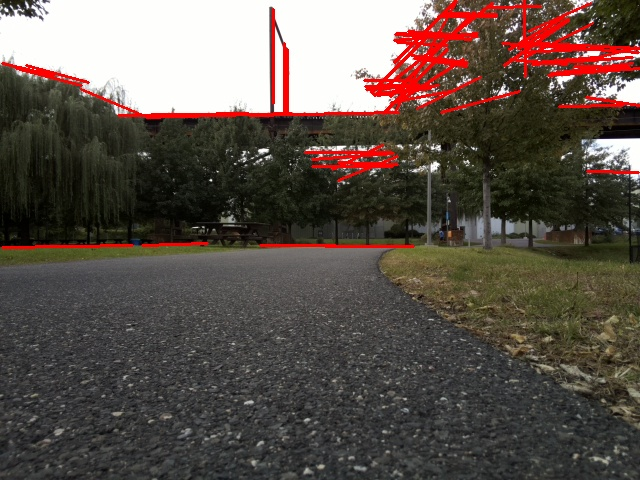
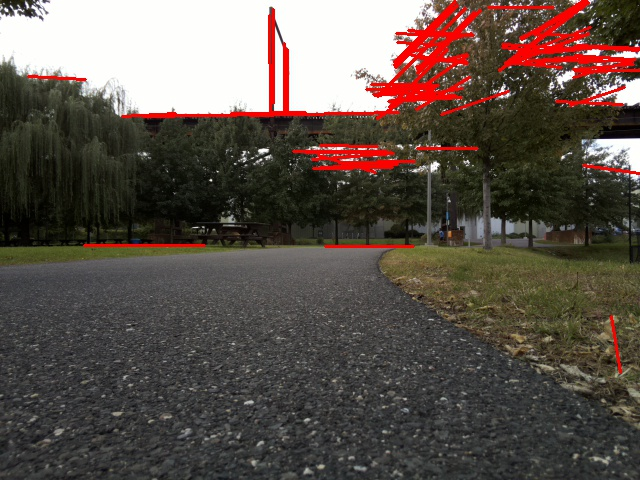
Functioning HSV_CV_Platoon.py for detecting right-most orange ribbon line

diff --git a/PiCode/HSV_CV_Platoon.py b/PiCode/HSV_CV_Platoon.py
@@ -1,4 +1,3 @@
-
 # Code to detect Xo and PsiR from pictures of Penn Park roads taken from Pi Camera 
 import cv2
 import numpy as np
@@ -24,15 +23,32 @@ import matplotlib.pyplot as plt
 
 # Read in image from directory of Penn Park images
 # Change this to where the image 
+
+
+def debug_chosen_line(offset, psi_r, chosenLine, imgBGR):
+    x1 = chosenLine[0]
+    y1 = chosenLine[1]
+    x2 = chosenLine[2]
+    y2 = chosenLine[3]
+
+    font                   = cv2.FONT_HERSHEY_SIMPLEX
+    fontScale              = 1
+    fontColor              = (255,255,255)
+    lineType               = 2
+    cv2.putText(imgBGR,"Estimated Offset: {0:.2f}".format(offset),(50,400),font,fontScale,fontColor,lineType)
+    cv2.putText(imgBGR,"Estimated Psi_R: {0:.2f}".format(psi_r),(50,450),font,fontScale,fontColor,lineType)
+
+    # Draw the line on the original image
+    cv2.line(imgBGR,(x1,y1),(x2,y2),(255,0,0),10)
+
+    print("x1: {} x2: {} y1: {} y2: {}".format(x1, x2, y1, y2))
+    print("Estimated Offset: {0:.2f}".format(offset))
+    print("Estimated Psi_r: {0:.2f}".format(psi_r))
+
     
 def perform_image_transformations(imgBGR):
     imgGray = cv2.cvtColor(imgBGR, cv2.COLOR_BGR2GRAY)
-    
-    ranges=(20,90,255) # Range of acceptable HSV values
-    frontpoint = (0.5, 0.1) # fractions of total resolution in (x,y)
-    avgsize = 5 # number of pixels to average
-    blursize = 25
-    
+    blursize = 1
     # Convert image to HSV
     imghsv = cv2.cvtColor(imgBGR, cv2.COLOR_BGR2HSV)
     # Blur image
@@ -41,11 +57,24 @@ def perform_image_transformations(imgBGR):
     return imgGray, imghsv
 
 
-def get_CV_results(imgBGR, imgGray, imghsv,edges,heightOffset,widthOffset,height,width):
-     # Print out dimensions of cropped image
+def get_CV_results(imgBGR, imgGray, imghsv):
+    height, width = imgBGR.shape[0:2]
+    
+    # Hard-coded Thresholds for Orange
+    lowerthres = np.array([0, 100, 100])
+    upperthres = np.array([100, 200, 255])
+    mask = cv2.inRange(imghsv, lowerthres, upperthres)
+
+    # Perform Canny edge detection on selected region of interest
+    # (Bottom right-hand corner of image)
+    heightOffset = int(height/2)
+    widthOffset = 0
+    edges = cv2.Canny(mask[heightOffset:height, widthOffset:width], 100,255)
+
+    # Print out dimensions of cropped image
     cropHeight,cropWidth = edges.shape
     # Filter detected edges for potential road edges
-    minLineLength = 30
+    minLineLength = 40
     maxLineGap = 30
     lines = cv2.HoughLinesP(edges,rho=1,theta=np.pi/180,threshold=20,
         minLineLength=minLineLength,maxLineGap=maxLineGap)
@@ -55,6 +84,8 @@ def get_CV_results(imgBGR, imgGray, imghsv,edges,heightOffset,widthOffset,height
     CAMERA_FOCAL_LENGTH = 1098.88
 
     y2max = 0
+    x2max = 0
+    maxLineLength = 0
     for x in range(0, len(lines)):
         for x1,y1,x2,y2 in lines[x]:
             x1 = x1 + widthOffset
@@ -62,24 +93,27 @@ def get_CV_results(imgBGR, imgGray, imghsv,edges,heightOffset,widthOffset,height
             y1 = y1 + heightOffset
             y2 = y2 + heightOffset
             slope_image = (x2 - x1) * 1.0/ (y2 - y1)
+            dx = x2-x1
+            dy = y2-y1
+            lineLength = math.sqrt((dx**2)+(dy**2))
+            # print("Line length: {}".format(lineLength))
             x_intercept_computer_coords = x1 - (slope_image * y1)
             x_intercept_centered_coords = slope_image * (height/2) + x_intercept_computer_coords - (width/2)
-            print("x1: {} x2: {} y1: {} y2: {}".format(x1, x2, y1, y2))
-            if y2 > y2max:
+            # # Draw the line on the original image
+            # cv2.line(imgBGR,(x1,y1),(x2,y2),(255,0,0),4)
+            # if slope_image > 0 and y2 > y2max and x2 > x2max:
+
+            if slope_image > 0 and y2 > y2max:
                 y2max = y2
-                chosenLine = [x1,y1,x2,y2]
-                # Calculate Xo and PsiR
-                offset = slope_image * CAMERA_HEIGHT
-                psi_r = math.degrees(math.atan(x_intercept_centered_coords/CAMERA_FOCAL_LENGTH))
-            
-            x1 = chosenLine[0]
-            x2 = chosenLine[1]
-            y1 = chosenLine[2]
-            y2 = chosenLine[3]
-            # Draw the line on the original image
-            cv2.line(imgBGR,(x1,y1),(x2,y2),(255,0,0),4)
+                if lineLength>maxLineLength:
+                    maxLineLength = lineLength
+                    chosenLine = [x1,y1,x2,y2]
+                    # Calculate Xo and PsiR
+                    offset = slope_image * CAMERA_HEIGHT
+                    psi_r = math.degrees(math.atan(x_intercept_centered_coords/CAMERA_FOCAL_LENGTH))
     
-    return offset, psi_r, chosenLine
+    return offset, psi_r, chosenLine, edges, mask
+
 
 def init_camera(photoHeight):
     camera = picamera.PiCamera()
@@ -87,41 +121,21 @@ def init_camera(photoHeight):
     camera.resolution = (16*photoHeight/9, photoHeight)
     return camera
 
-def threshold_image(imgBGR,imgGray,imghsv):
-    ranges=(0,10,100) # Range of acceptable HSV values
-    frontpoint = (0.5, 0.1) # fractions of total resolution in (x,y)
-    avgsize = 5 # number of pixels to average
-    blursize = 25
-    height, width = imgBGR.shape[0:2]
-
-    # Hard-coded thresholds for orange in hsv space
-    lowerthres = np.array([0,100,100], dtype=np.uint8)
-    upperthres = np.array([100,200,255], dtype=np.uint8)
-    mask = cv2.inRange(imghsv, lowerthres, upperthres)
-
-    # Perform Canny edge detection on selected region of interest
-    # (Bottom right-hand corner of image)
-    heightOffset = 0
-    widthOffset = 0
-    edges = cv2.Canny(mask[heightOffset:height, widthOffset:width], 100,255)
-    return mask, edges,heightOffset,widthOffset,height,width
-
 def capture_image(camera, camstore_filename):
     camera.capture(camstore_filename)
-    imgBGR = cv2.imread(camstore_filename) 
+    imgBGR = cv2.imread(camstore_filename) #cv2.imread('/Users/adnanjafferjee/ESE421/PennParkImages/curvingRoad.jpg')
+
 
 # Plot debugging graphs
 def plot_data(imgBGR, imghsv, mask, edges):
-    b,g,r = cv2.split(imgBGR)       # get b,g,r
-    imgRGB = cv2.merge([r,g,b])
-    plt.imshow(imgRGB)
+    plt.imshow(imgBGR)
     plt.title('Detected Road Edge')
 
     fig = plt.figure()
     a = fig.add_subplot(2, 2, 1)
     # Original color image with detected line plotted on it
-    imgplot = plt.imshow(imgRGB)
-    a.set_title('RGB')
+    imgplot = plt.imshow(imgBGR)
+    a.set_title('RGB ')
     a = fig.add_subplot(2, 2, 2)
     # Image in HSV space
     imgplot = plt.imshow(imghsv)
@@ -137,40 +151,23 @@ def plot_data(imgBGR, imghsv, mask, edges):
     plt.subplots_adjust(top=0.92, bottom=0.08, left=0.10, right=0.95, hspace=0.25,
                         wspace=0.35)
     plt.show(block=True)
-
-def debug_chosen_line(offset, psi_r, chosenLine, imgBGR):
-    x1 = chosenLine[0]
-    y1 = chosenLine[1]
-    x2 = chosenLine[2]
-    y2 = chosenLine[3]
-
-    font                   = cv2.FONT_HERSHEY_SIMPLEX
-    fontScale              = 1
-    fontColor              = (255,255,255)
-    lineType               = 2
-    cv2.putText(imgBGR,"Estimated Offset: {0:.2f}".format(offset),(50,400),font,fontScale,fontColor,lineType)
-    cv2.putText(imgBGR,"Estimated Psi_R: {0:.2f}".format(psi_r),(50,450),font,fontScale,fontColor,lineType)
-
-    print("x1: {} x2: {} y1: {} y2: {}".format(x1, x2, y1, y2))
-    print("Estimated Offset: {0:.2f}".format(offset))
-    print("Estimated Psi_r: {0:.2f}".format(psi_r))
-      
+    
+    
 def main():
     CAMSTORE_FILENAME = 'piPicture.jpg'
     PHOTO_HEIGHT = 540
     # camera = init_camera(PHOTO_HEIGHT)
     # imgBGR = capture_image(camera, CAMSTORE_FILENAME)
-    imgBGR = cv2.imread('/Users/adnanjafferjee/ESE421/PlatoonTestData/LinearOffset0".jpg')
+    imgBGR = cv2.imread('/Users/adnanjafferjee/ESE421/LabTestImages/Orange_Ribbon_Extended.jpg')
     imgGray, imghsv = perform_image_transformations(imgBGR)
-    edges,mask,heightOffset,widthOffset,height,width = threshold_image(imgBGR,imgGray,imghsv)
-    offset, psi_r, chosenLine = get_CV_results(imgBGR,imgGray,imghsv,edges,heightOffset,widthOffset,height,width)
-    debug_chosen_line(offset, psi_r, chosenLine, imgBGR)  
+    offset, psi_r, chosenLine, edges, mask = get_CV_results(imgBGR, imgGray, imghsv)
+    debug_chosen_line(offset, psi_r, chosenLine, imgBGR)
     plot_data(imgBGR, imghsv, mask, edges)
     return
     
+
 if __name__ == "__main__":
     main()
     
 
 # TODO: Feedback "expected" value of PsiR and Xo to compare with detected (low pass filter)
-

diff --git a/PiCode/HSV_CV_lib.py b/PiCode/HSV_CV_lib.py
@@ -1,4 +1,3 @@
-
 # Code to detect Xo and PsiR from pictures of Penn Park roads taken from Pi Camera 
 import cv2
 import numpy as np
@@ -6,7 +5,7 @@ import math
 import matplotlib.pyplot as plt
 
 
-import picamera
+# import picamera
 
 # UNCOMMENT ALL OF THIS IF YOU WANT TO ANALYZE PICTURES TAKEN BY THE PI
 # # Set up the camera
@@ -42,9 +41,9 @@ def debug_chosen_line(offset, psi_r, chosenLine, imgBGR):
     # Draw the line on the original image
     cv2.line(imgBGR,(x1,y1),(x2,y2),(255,0,0),4)
 
-##    print("x1: {} x2: {} y1: {} y2: {}".format(x1, x2, y1, y2))
-##    print("Estimated Offset: {0:.2f}".format(offset))
-##    print("Estimated Psi_r: {0:.2f}".format(psi_r))
+    print("x1: {} x2: {} y1: {} y2: {}".format(x1, x2, y1, y2))
+    print("Estimated Offset: {0:.2f}".format(offset))
+    print("Estimated Psi_r: {0:.2f}".format(psi_r))
 
     
 def perform_image_transformations(imgBGR):
@@ -84,21 +83,13 @@ def get_CV_results(imgBGR, imgGray, imghsv):
         max(avgcolor[1]-ranges[1], 0), max(avgcolor[2]-ranges[2], 0)], dtype=np.uint8)
     upperthres = np.array([min(avgcolor[1]+ranges[0], 255), 
         min(avgcolor[1]+ranges[1], 255), min(avgcolor[2]+ranges[2], 255)], dtype=np.uint8)
-<<<<<<< HEAD
-    # Orange Detection
-    lowerthres = np.array([0,100,100],dtype=np.uint8)
-=======
-    # Hard-coded thresholds for orange in hsv space
-    lowerthres = np.array([0,100,100], dtype=np.uint8)
->>>>>>> 291891756c608d3692d23faffbd508219f88e59f
-    upperthres = np.array([100,200,255], dtype=np.uint8)
     mask = cv2.inRange(imghsv, lowerthres, upperthres)
     ## END RYAN'S CODE
 
     # Perform Canny edge detection on selected region of interest
     # (Bottom right-hand corner of image)
-    heightOffset = height/2
-    widthOffset = 0
+    heightOffset = int(height/2)
+    widthOffset = int(width/2)
     edges = cv2.Canny(mask[heightOffset:height, widthOffset:width], 100,255)
 
     # Print out dimensions of cropped image
@@ -124,11 +115,12 @@ def get_CV_results(imgBGR, imgGray, imghsv):
             x_intercept_computer_coords = x1 - (slope_image * y1)
             x_intercept_centered_coords = slope_image * (height/2) + x_intercept_computer_coords - (width/2)
 
-            offset = slope_image * CAMERA_HEIGHT
-            psi_r = math.degrees(math.atan(x_intercept_centered_coords/CAMERA_FOCAL_LENGTH))
-            # Draw the line on the original image
-            cv2.line(imgBGR,(x1,y1),(x2,y2),(255,0,0),4)
-            chosenLine = [1,2,3,4]
+            if slope_image > 0 and y2 > y2max:
+                y2max = y2
+                chosenLine = [x1,y1,x2,y2]
+                # Calculate Xo and PsiR
+                offset = slope_image * CAMERA_HEIGHT
+                psi_r = math.degrees(math.atan(x_intercept_centered_coords/CAMERA_FOCAL_LENGTH))
     
     return offset, psi_r, chosenLine, edges, mask
 
@@ -143,7 +135,6 @@ def init_camera(photoHeight):
 def capture_image(camera, camstore_filename):
     camera.capture(camstore_filename)
     imgBGR = cv2.imread(camstore_filename) #cv2.imread('/Users/adnanjafferjee/ESE421/PennParkImages/curvingRoad.jpg')
-    return imgBGR
 
 
 # Plot debugging graphs
@@ -178,21 +169,16 @@ def main():
     PHOTO_HEIGHT = 540
     # camera = init_camera(PHOTO_HEIGHT)
     # imgBGR = capture_image(camera, CAMSTORE_FILENAME)
-    imgBGR = cv2.imread('/Users/adnanjafferjee/ESE421/PlatoonTestData/LinearOffset0".jpg')
+    imgBGR = cv2.imread('/Users/adnanjafferjee/ESE421/PennParkImages/curvingRoad.jpg')
     imgGray, imghsv = perform_image_transformations(imgBGR)
     offset, psi_r, chosenLine, edges, mask = get_CV_results(imgBGR, imgGray, imghsv)
     debug_chosen_line(offset, psi_r, chosenLine, imgBGR)
     plot_data(imgBGR, imghsv, mask, edges)
     return
-<<<<<<< HEAD
-
     
-=======
->>>>>>> 291891756c608d3692d23faffbd508219f88e59f
 
 if __name__ == "__main__":
     main()
     
 
 # TODO: Feedback "expected" value of PsiR and Xo to compare with detected (low pass filter)
-

diff --git a/PiCode/HSV_CV.py b/PiCode/HSV_CV.py
@@ -4,7 +4,7 @@ import cv2
 import numpy as np
 import math
 import matplotlib.pyplot as plt
-import picamera
+# import picamera
 
 # UNCOMMENT ALL OF THIS IF YOU WANT TO ANALYZE PICTURES TAKEN BY THE PI
 # # Set up the camera
